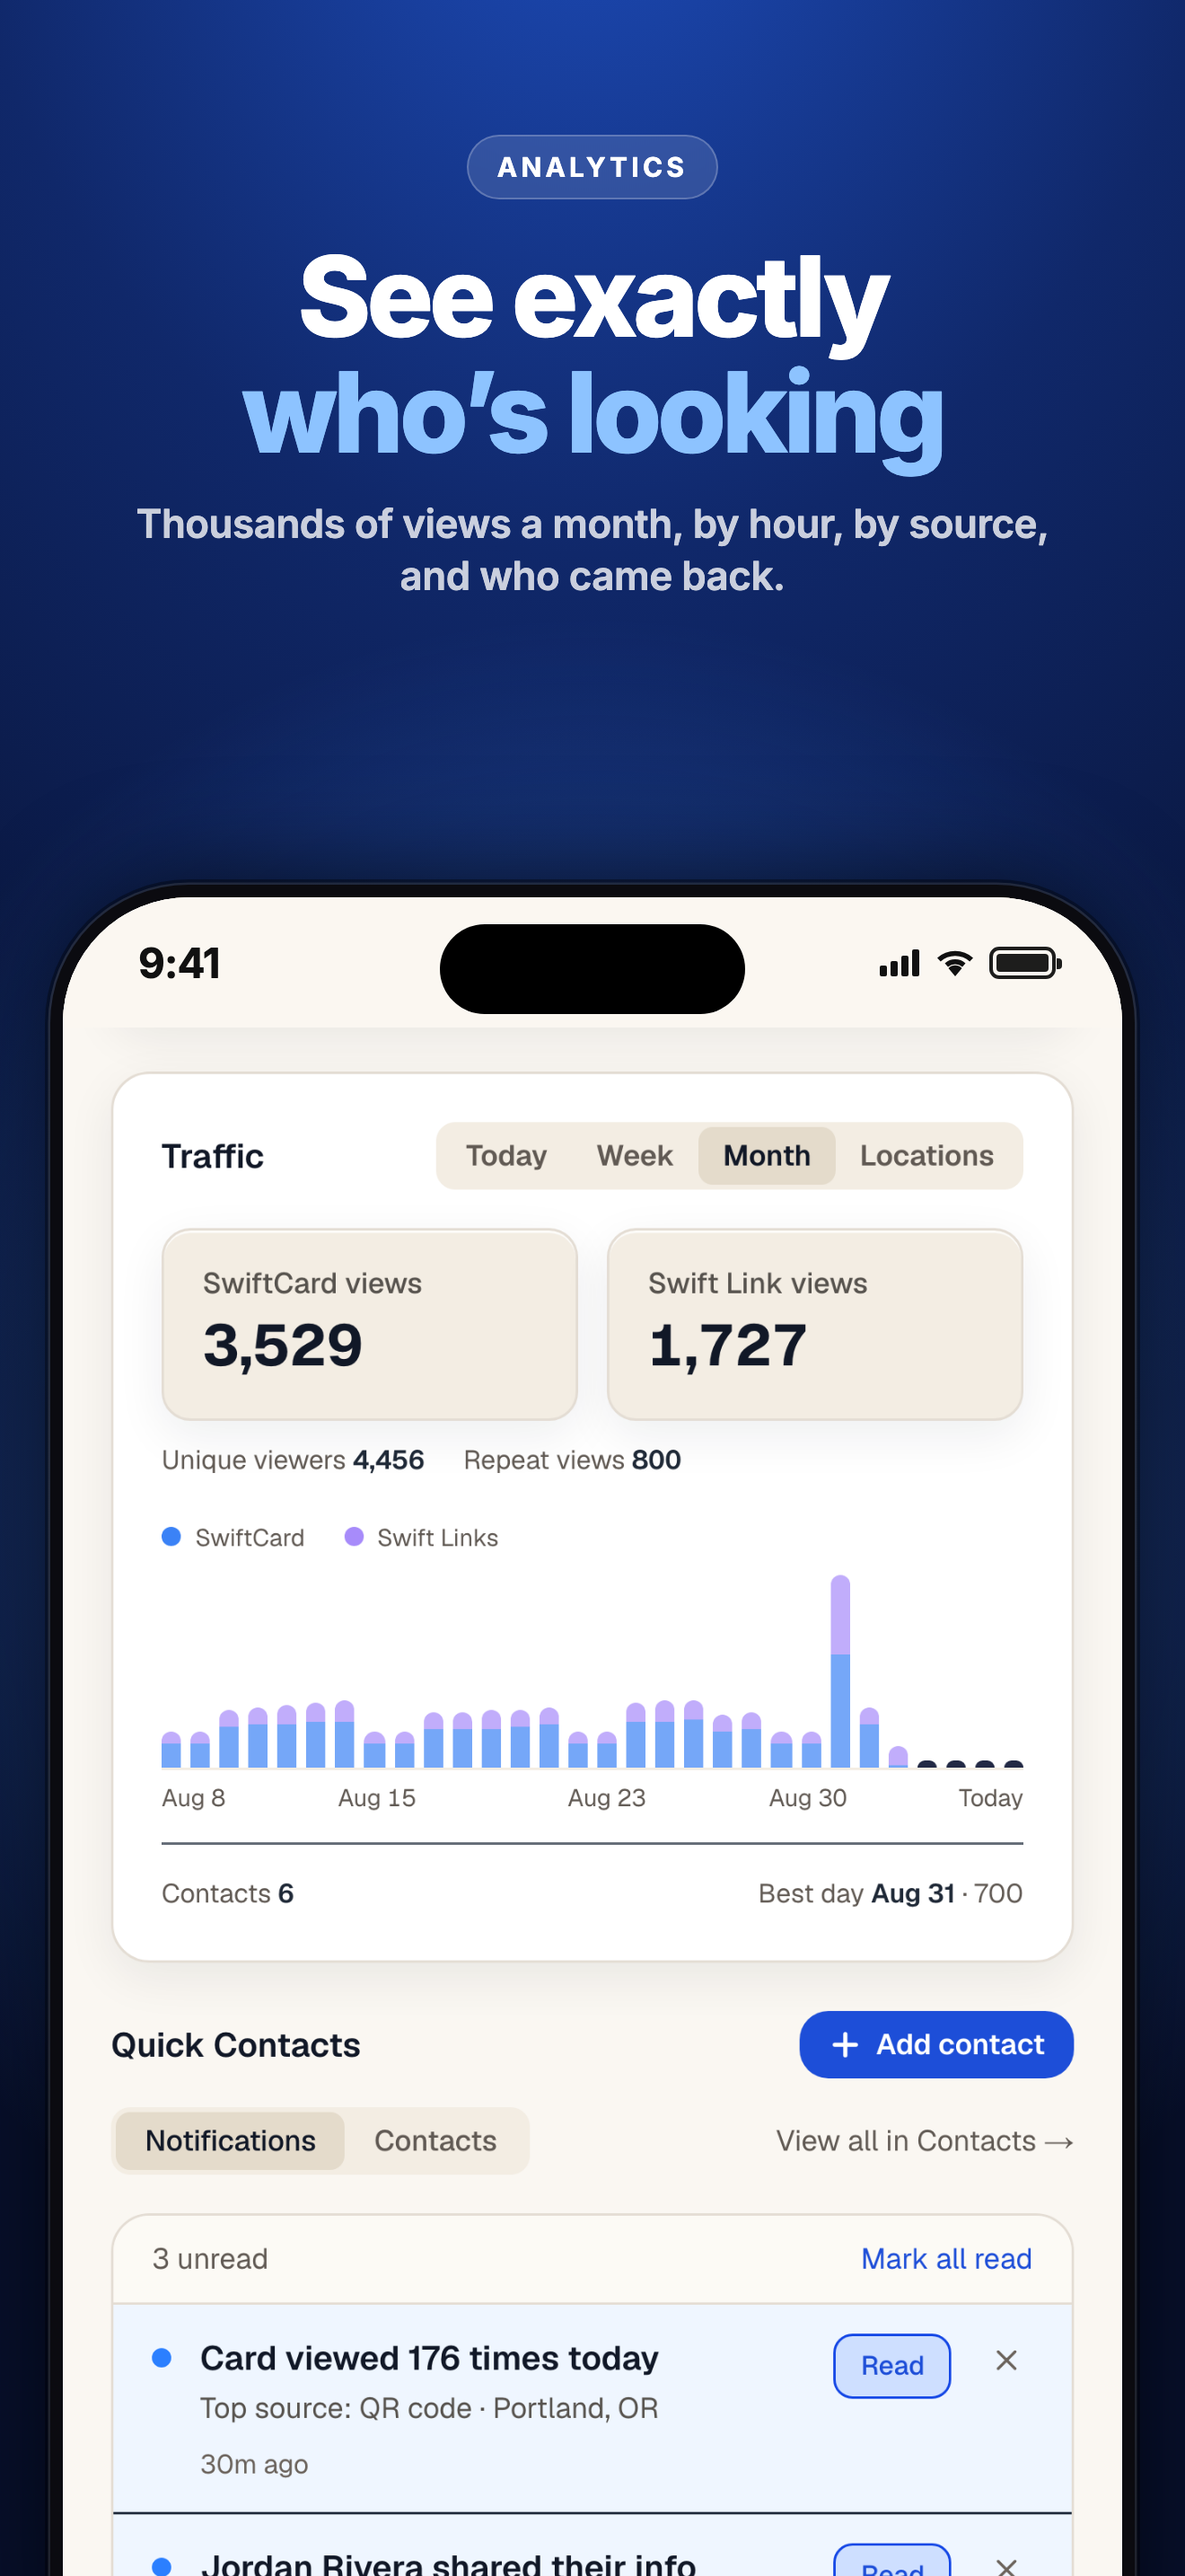
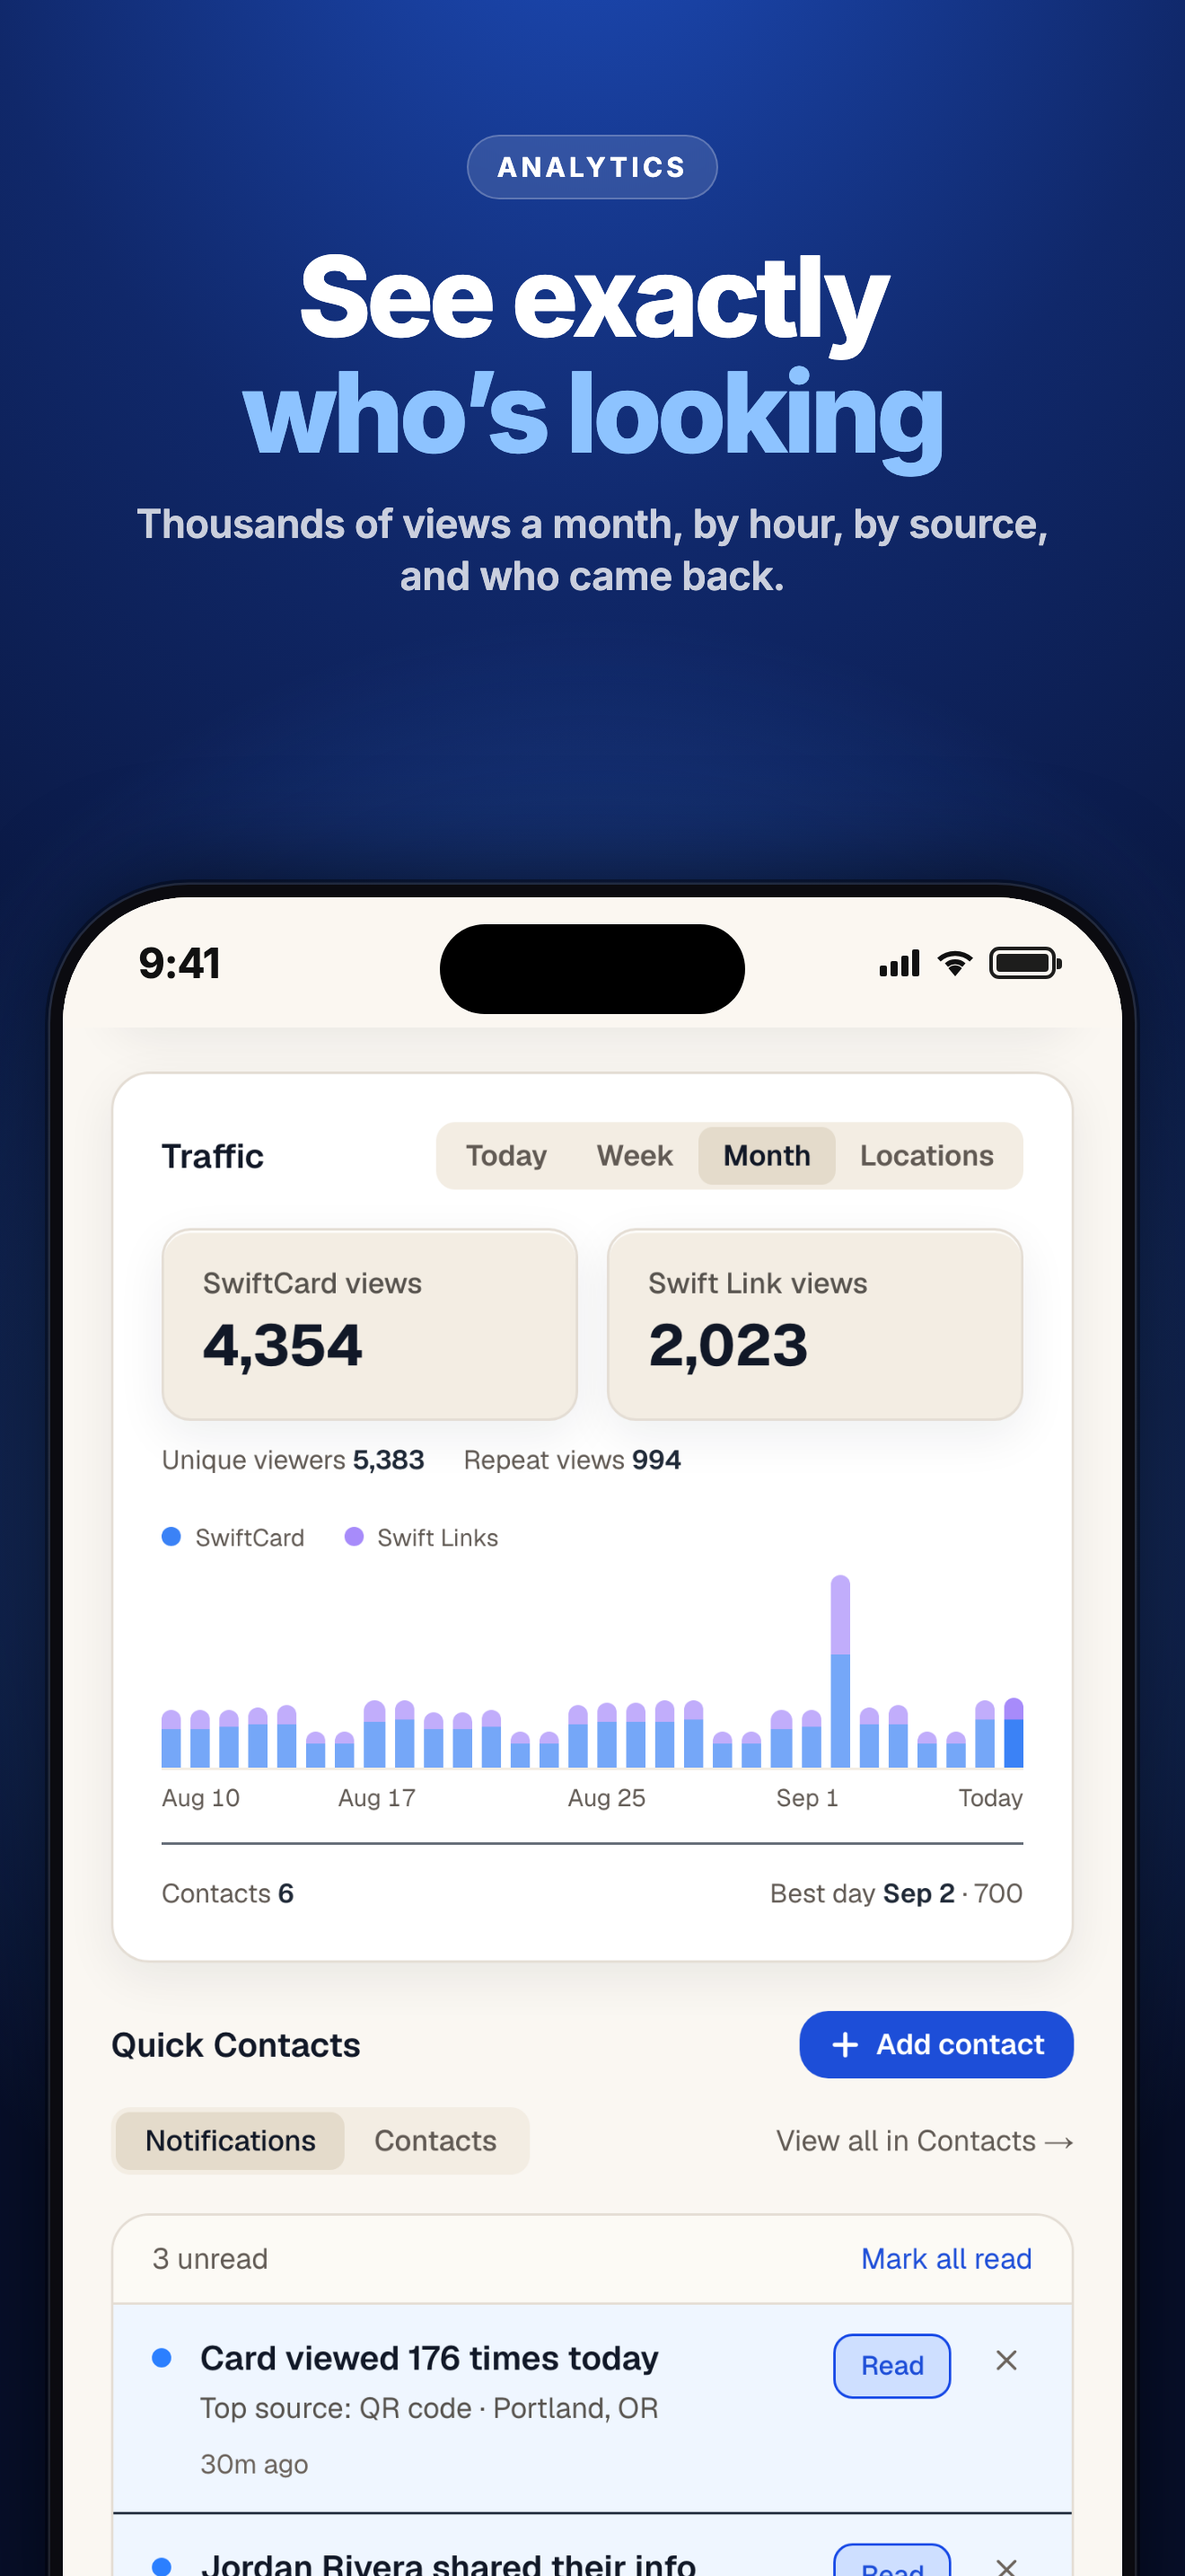
App Store v3 screenshots re-shot: the dashboard frame shows the full month
The 09-06 dashboard frame had its newest four days flat (3,529 views,
not the 4,354 seeded): the first 1000-row card_views batch failed and
the seed's bare fetch never noticed. The seed now checks and retries
each batch and throws on failure. All ten frames regenerated and
attached to the new 1.0.2 version in App Store Connect (Prepare for
Submission — nothing submitted).

Claude-Session: https://claude.ai/code/session_01A4XwhWtycyZX8NcmzBkHrQ

diff --git a/app-store/screenshots/6.9-inch-v3/README.md b/app-store/screenshots/6.9-inch-v3/README.md
@@ -71,10 +71,18 @@ leads, card, profile, auth user) in a finally block.
 ## Uploading
 
 `scripts/asc-upload-screenshots.mjs` defaults to the 1.0.0 localization, which
-is live and cannot accept screenshots. Target the pending version:
+is live and cannot accept screenshots. 1.0.1 shipped (2026-09-08) still on the
+v2 set — it was submitted before this set existed and locked. This set is
+attached to **1.0.2** (created 2026-09-08, Prepare for Submission; description,
+keywords and promo text carried over), and goes live when 1.0.2 is submitted
+with a build:
 
-    ASC_LOCALIZATION_ID=077d36d9-9903-46b1-8a9a-0b5ac3226bf5 \
+    ASC_LOCALIZATION_ID=efacc7ef-d168-43b7-9751-cf49f0cb2046 \
       node scripts/asc-upload-screenshots.mjs app-store/screenshots/6.9-inch-v3
+
+Re-shot 2026-09-08: the 09-06 dashboard frame had its newest four days flat
+(3,529 views instead of the 4,354 seeded) because the first 1000-row
+`card_views` batch failed silently. The seed now checks every batch.
 
 It deletes and recreates the APP_IPHONE_67 set, so the listing mirrors this
 directory exactly rather than appending. A version that is Waiting for Review
